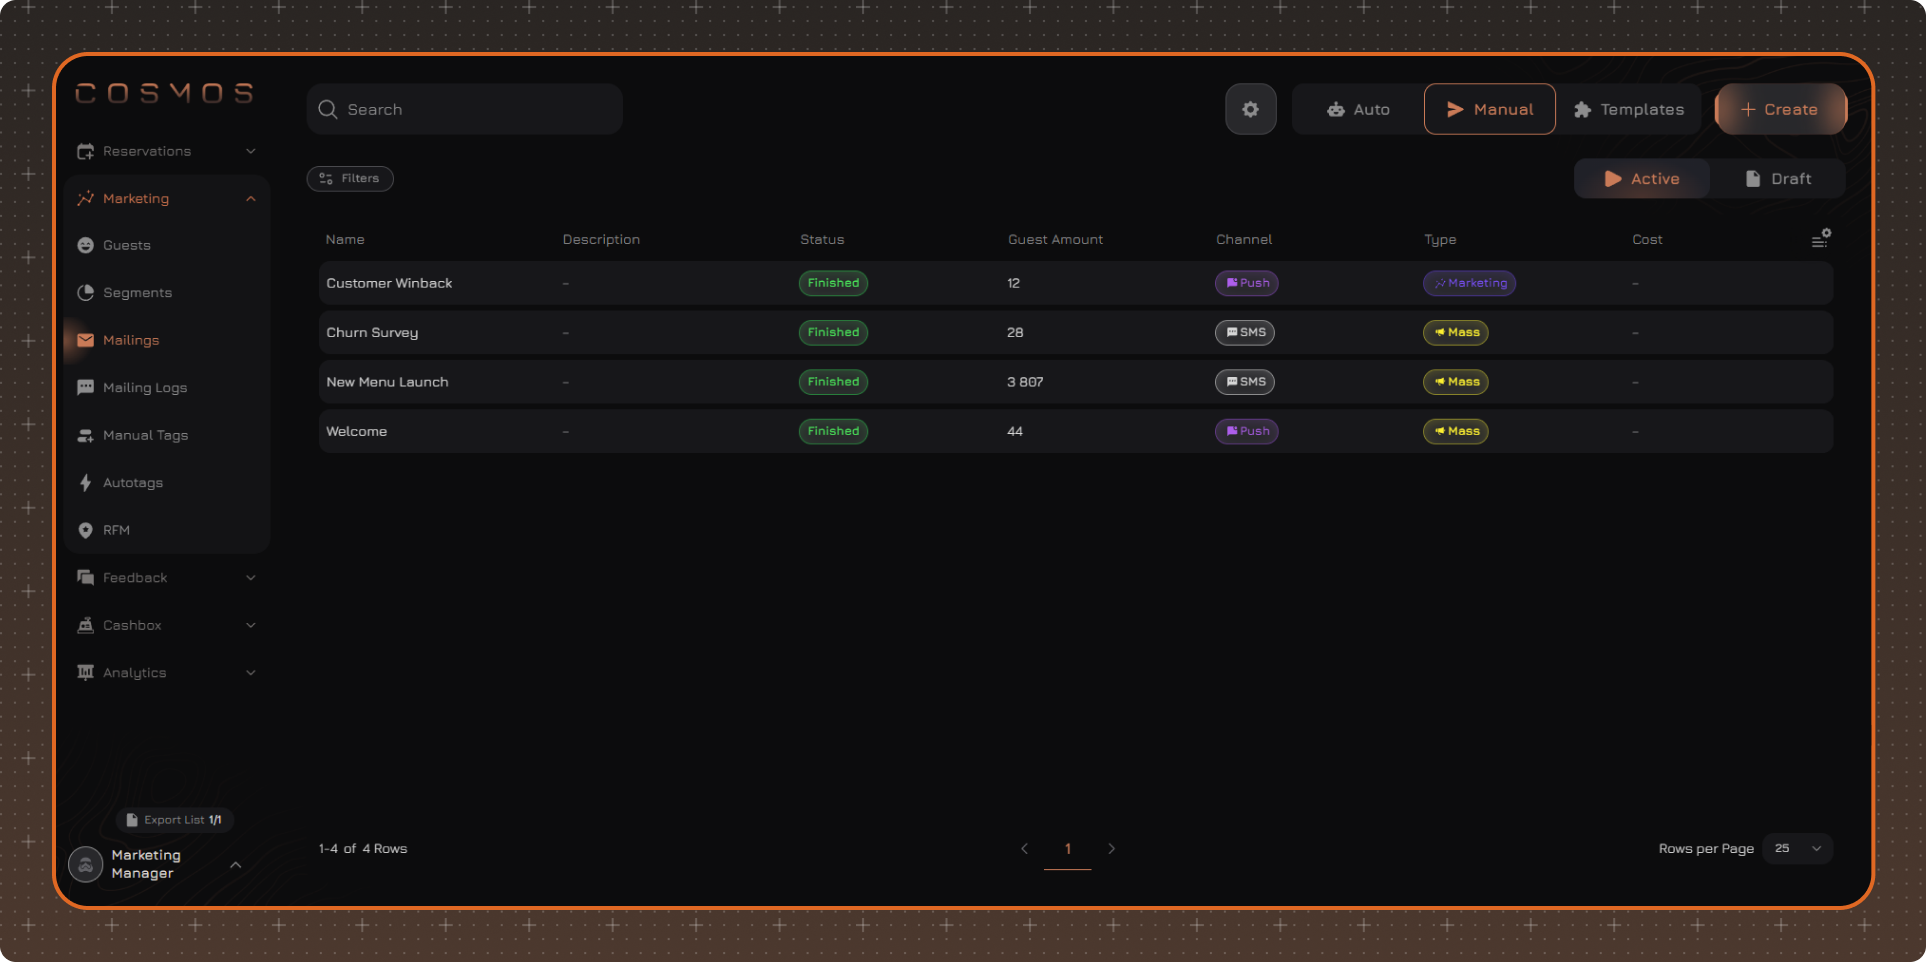
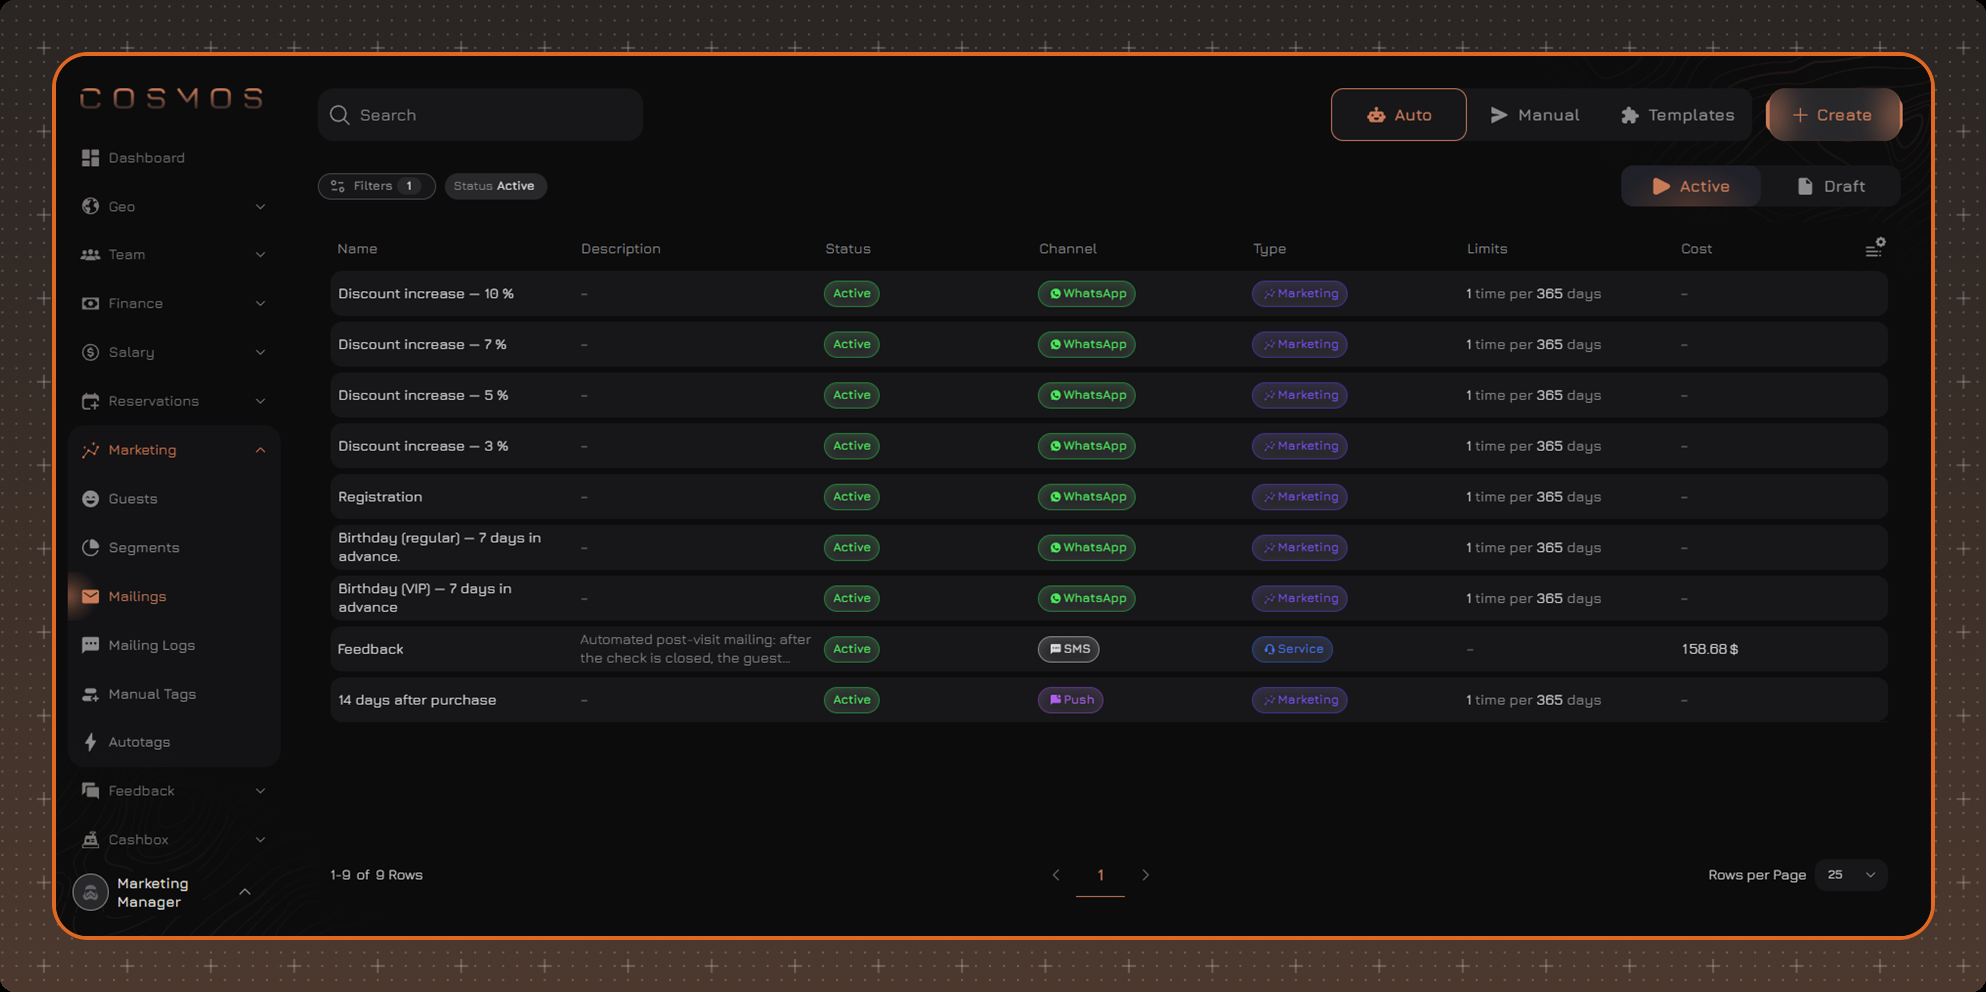
Mailings: колонка «Стоимость» и стоимость рассылки, новые скрины таблиц, Marketing Manager на скринах RU и EN (CIMP-309) (#96)

diff --git a/content/ru/marketing/mailings/info.md b/content/ru/marketing/mailings/info.md
@@ -100,6 +100,7 @@ updatedAt: 2026-08-28
 - **Дата создания** 
 - **Автор** 
 - **Последнее обновление** 
+- **Стоимость** — сколько стоили все отправки рассылки: у автоматической рассылки за все время работы, у ручной — сумма всех отправок. Стоимость считается только для SMS, для других каналов отображается прочерк. Стоимость рассылки также отображается на странице рассылки рядом с ее названием
 
 Только для автоматических рассылок:
 

diff --git a/content/en/marketing/mailings/info.md b/content/en/marketing/mailings/info.md
@@ -99,6 +99,7 @@ The mailing table contains the following columns:
 - **Created At**
 - **Author**
 - **Last Update**
+- **Cost** — the total cost of all messages sent by the mailing: for an Auto mailing, for the whole time it has been running; for a Manual mailing, the sum of all messages sent. The cost is calculated only for SMS; for other channels, a dash is displayed. The mailing cost is also shown on the mailing page next to its name
 
 For Auto mailings only:
 
